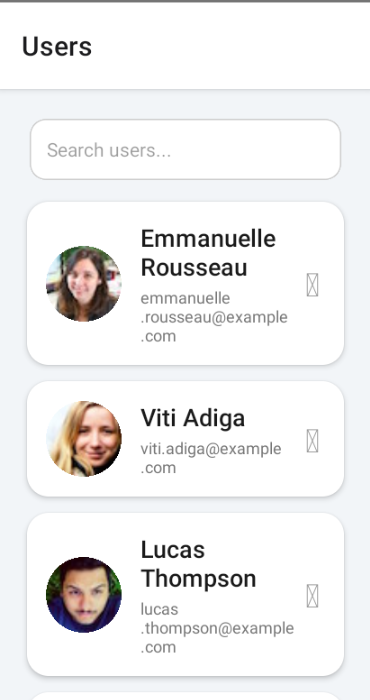
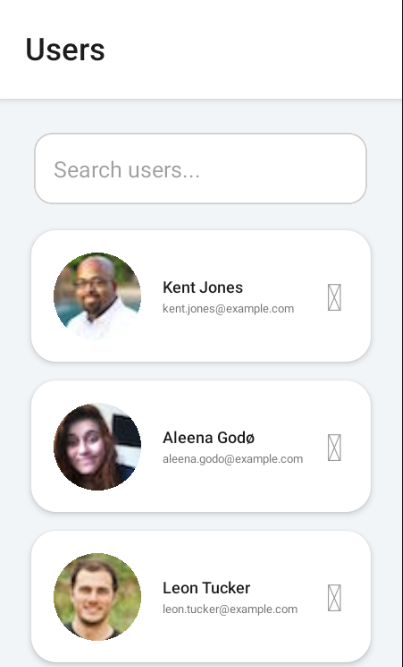
style: name and email font-size control

diff --git a/components/useFavorites.js b/components/useFavorites.js
@@ -1,21 +1,21 @@
-import AsyncStorage from '@react-native-async-storage/async-storage';
+import AsyncStorage from '@react-native-async-storage/async-storage'
 
 export const checkIfFavorite = async (uuid) => {
-  const stored = await AsyncStorage.getItem('favorites');
-  const favorites = stored ? JSON.parse(stored) : [];
-  return favorites.some(fav => fav.login.uuid === uuid);
-};
+  const stored = await AsyncStorage.getItem('favorites')
+  const favorites = stored ? JSON.parse(stored) : []
+  return favorites.some(fav => fav.login.uuid === uuid)
+}
 
 export const toggleFavoriteUser = async (user, isFavorite) => {
-  const stored = await AsyncStorage.getItem('favorites');
-  let favorites = stored ? JSON.parse(stored) : [];
+  const stored = await AsyncStorage.getItem('favorites')
+  let favorites = stored ? JSON.parse(stored) : []
 
   if (isFavorite) {
-    favorites = favorites.filter(fav => fav.login.uuid !== user.login.uuid);
+    favorites = favorites.filter(fav => fav.login.uuid !== user.login.uuid)
   } else {
-    favorites.push(user);
+    favorites.push(user)
   }
 
-  await AsyncStorage.setItem('favorites', JSON.stringify(favorites));
-  return !isFavorite;
-};
+  await AsyncStorage.setItem('favorites', JSON.stringify(favorites))
+  return !isFavorite
+}

diff --git a/api/userService.js b/api/userService.js
@@ -1,11 +1,11 @@
 export const fetchUsers = async (page = 20) => {
-  const response = await fetch(`https://randomuser.me/api/?results=20&page=${page}`);
-  const data = await response.json();
-  return data.results;
+  const response = await fetch(`https://randomuser.me/api/?results=20&page=${page}`)
+  const data = await response.json()
+  return data.results
 };
 
 export const filterUsers = (users, query) => {
   return users.filter(user =>
     `${user.name.first} ${user.name.last}`.toLowerCase().includes(query.toLowerCase())
-  );
-};
+  )
+}

diff --git a/components/ErrorMessage.js b/components/ErrorMessage.js
@@ -1,12 +1,12 @@
-import React from 'react';
-import { View, Text } from 'react-native';
-import globalStyles from '../styles/globalStyles';
+import React from 'react'
+import { View, Text } from 'react-native'
+import globalStyles from '../styles/globalStyles'
 
 export default function ErrorMessage({ message }) {
-  if (!message) return null;
+  if (!message) return null
   return (
     <View style={globalStyles.errorContainer}>
       <Text style={globalStyles.errorText}>{message}</Text>
     </View>
-  );
+  )
 }

diff --git a/styles/globalStyles.js b/styles/globalStyles.js
@@ -30,12 +30,12 @@ export default StyleSheet.create({
     flex: 1,
   },
   nameText: {
-    fontSize: 18,
+    fontSize: 10,
     fontWeight: '600',
     color: '#1a1a1a',
   },
   emailText: {
-    fontSize: 12,
+    fontSize: 7,
     color: '#777',
     marginTop: 2,
   },
